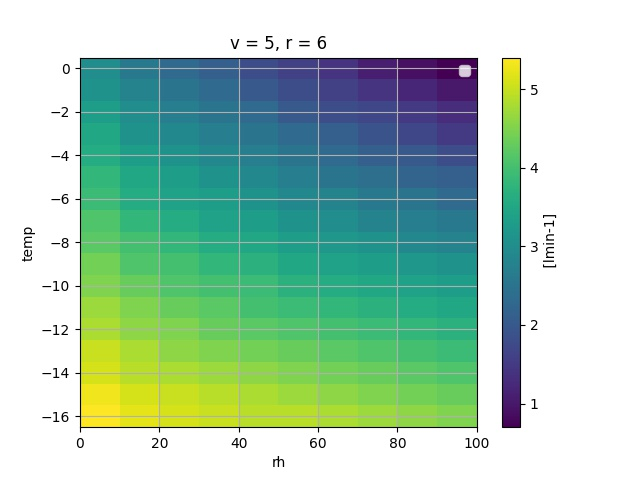
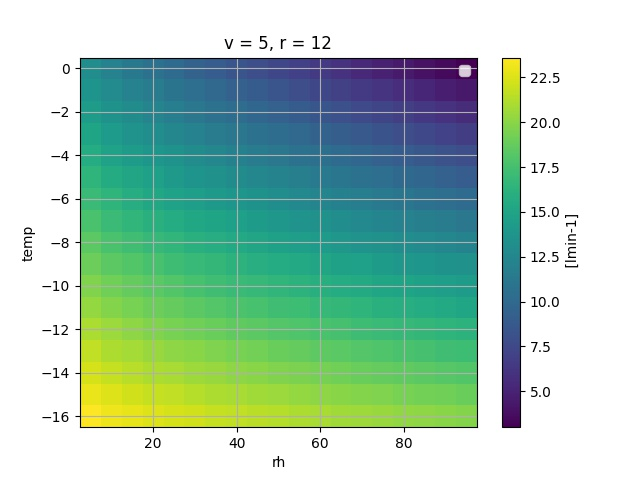
Discharge findings

diff --git a/find_discharge.py b/find_discharge.py
@@ -38,12 +38,13 @@ vp_ice = np.exp(43.494 - 6545.8 / (0 + 278)) / ((0 + 868) ** 2 * 100)
 
 
 # def max_discharge(T_min, RH_min, v_max=10, p_a=700, cld=0, r=10):
-def max_discharge(data, p_a=700, cld=0, h_max=20):
+def max_discharge(data, p_a=700, cld=0):
 
     T_min = data[0]
     RH_min = data[1]
     v_max = data[2]
     r = data[3]
+    h_max = r
 
     A = (
         math.pi
@@ -106,9 +107,9 @@ def max_discharge(data, p_a=700, cld=0, h_max=20):
 if __name__ == "__main__":
 
     temp = list(range(-20, 1))
-    rh = list(range(5, 100, 10))
+    rh = list(range(5, 100, 5))
     v = list(range(3, 6))
-    r = list(range(6, 12))
+    r = list(range(6, 15))
     da = xr.DataArray(
         data=np.zeros(len(temp) * len(rh) * len(v) * len(r)).reshape(
             len(temp), len(rh), len(v), len(r)
@@ -129,14 +130,12 @@ if __name__ == "__main__":
         for j in rh:
             for k in v:
                 for l in r:
-                    da.sel(temp=i, rh=j, v=k, r=l).data += max_discharge(
-                        [i, j, k, l], h_max=5
-                    )
+                    da.sel(temp=i, rh=j, v=k, r=l).data += max_discharge([i, j, k, l])
     print(da.sel(temp=-7, rh=15, v=4, r=10).data)
 
     plt.figure()
     ax = plt.gca()
-    da.sel(temp=slice(-16, 0), v=5, r=6).plot()
+    da.sel(temp=slice(-16, 0), v=5, r=12).plot()
     plt.legend()
     plt.grid()
     plt.savefig("try2.jpg")
